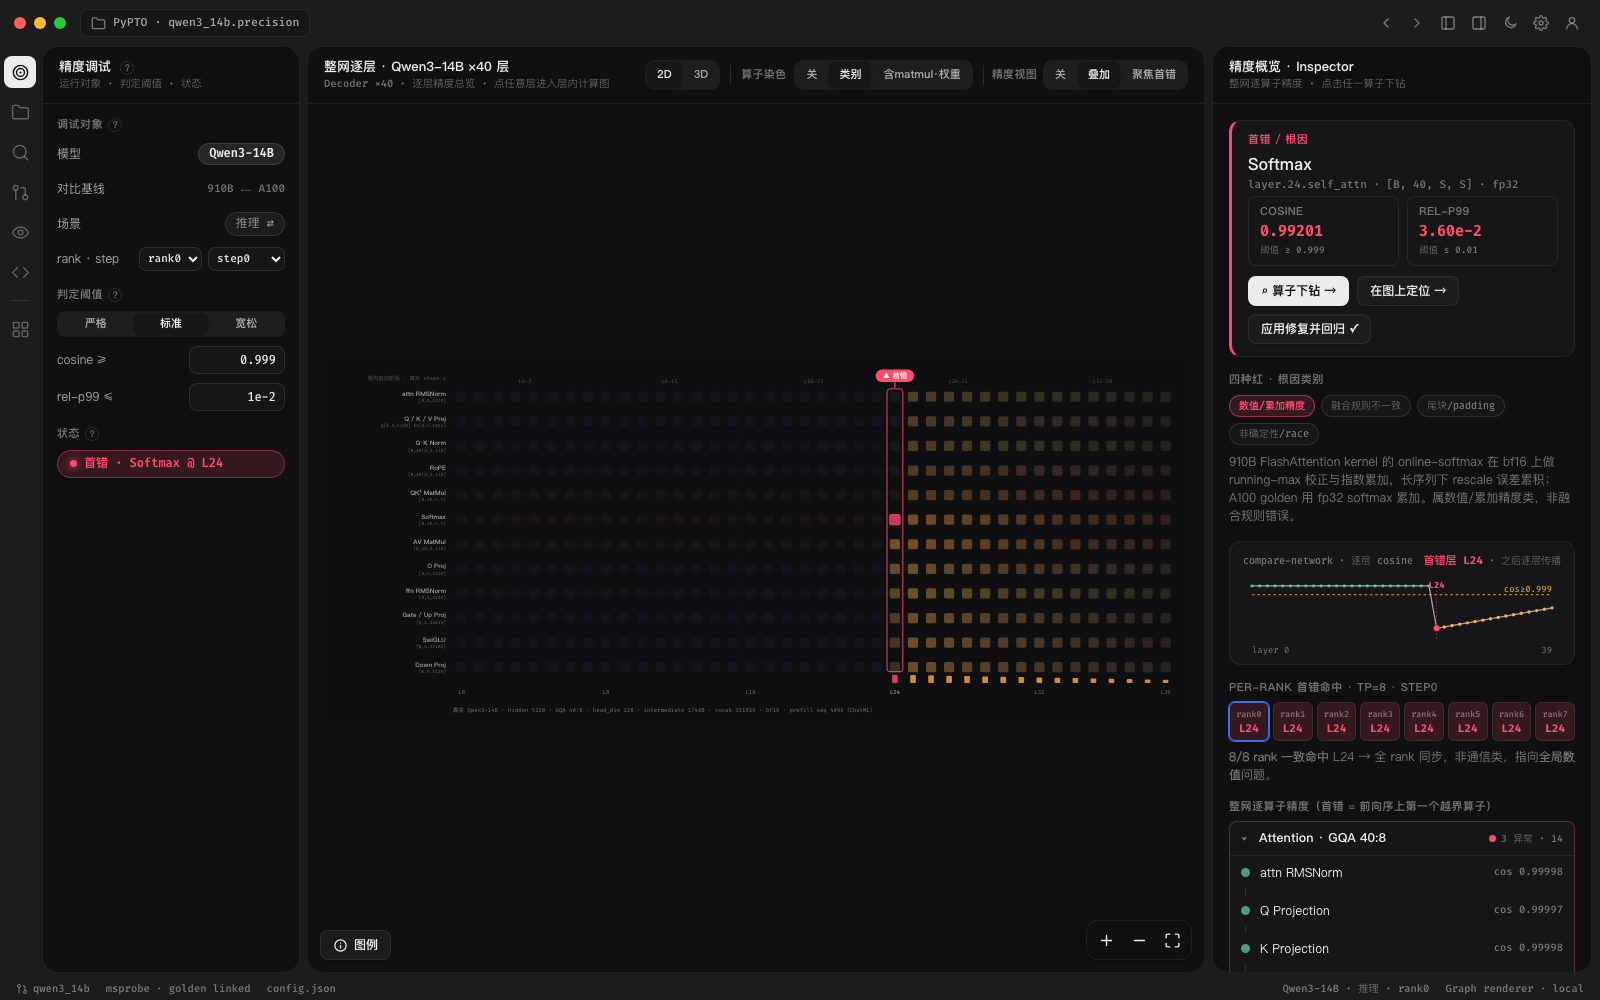
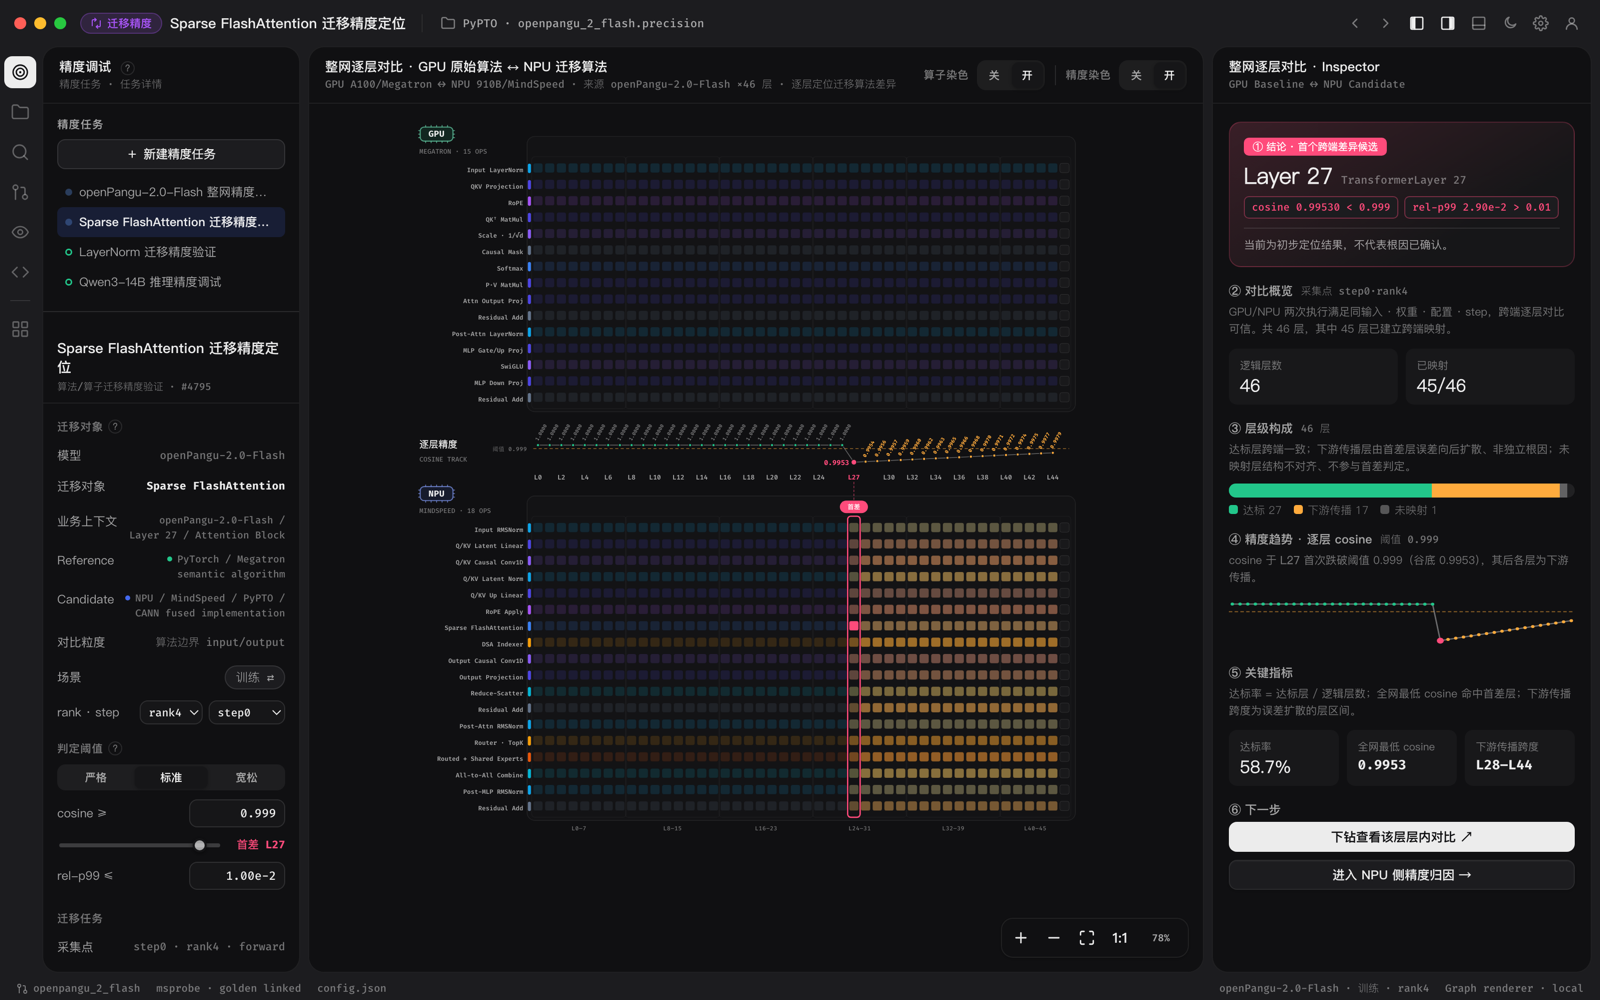
precision-debugger: 迁移架构图暗/浅色可读性修复 + 更新卡片封面
- 算子染色关：算子卡面从 14% 抬到 38% 前景灰，与 tensor 卡等亮、
  与画布拉开图底，文字强制满亮白（原来几乎与背景同色→看不清）
- 浅色 + 算子染色开：满饱和类别色降 fill-opacity 至 .55 掺淡成 pastel，
  深色标签 #0d0f14，解决黑字压在饱和紫上发闷看不清
- 同步 launch-v2 卡片封面为当前 openPangu-2.0-Flash 整网逐层对比落地视图

diff --git a/precision-debugger/index.html b/precision-debugger/index.html
@@ -2245,7 +2245,7 @@ let side3d = false;                     /* 整网侧视图 2D / 3D */
 let orbit = { rx: -16, ry: -32, z: 1 }; /* 3D 默认：等距斜视，深度轴投影为「左下→右上」 */
 let colorMode = 'cat';                   /* 整网染色图层：'cat' 类别 · 'dual' 双轴(是否matmul/有无权重) · 'off' 关 */
 let graphSem = true;                      /* 层内计算图：算子按类别染色(true) / 中性(false)——关掉让精度红/黄更聚焦 */
-const NODE_NEUTRAL = 'color-mix(in srgb, var(--foreground) 13%, var(--ide-pane-bg))';   /* 关闭算子染色时的中性卡面 */
+const NODE_NEUTRAL = 'color-mix(in srgb, var(--foreground) 36%, var(--ide-pane-bg))';   /* 关闭算子染色时的中性卡面（抬亮拉开图底、与 tensor 等亮，文字才看得清） */
 /* 算子类别配色 —— 对齐参考 openpangu modelviz 的领域色板（sem:* → opv:* → hex）
    norm=sky · linear=indigo · attention=blue · rope=violet · act=violet · gate=amber · moe=orange · mlp=violet · comm=cyan · embedding=teal · head=deep-violet */
 const CAT_COLOR = {
@@ -3639,7 +3639,19 @@ function injectArchCss(doc) {
     + ":root[data-theme='light'] .prec-cosbadge.c-crit text{fill:#e5325c}"
     + ":root[data-theme='light'] .prec-cosbadge.c-high text{fill:#c9781a}"
     + '.prec-tag rect{fill:#ff4b7b;filter:drop-shadow(0 2px 7px rgba(255,75,123,.55))}.prec-tag text{fill:#fff;font-family:var(--font-sans);font-weight:800;font-size:18px}'
-    + ':root.arch-nocolor .pto-model-graphviz-node.is-op rect,:root.arch-nocolor .pto-model-graphviz-node.is-module rect{fill:color-mix(in srgb,var(--foreground) 14%,var(--background))!important}';
+    /* 算子染色关：算子卡面抬到 ~0.40 灰，与 0.10 画布拉开图底、且与 tensor 卡（~0.40）等亮——
+       原 14% 几乎与背景同色→文字看不清，且比 tensor 暗一档看着像被「置灰」。仍保持中性去饱和，
+       不与首错/传播的红黄争焦点；文字强制满亮白，加一道细描边稳定图底。 */
+    + ':root.arch-nocolor .pto-model-graphviz-node.is-op rect,:root.arch-nocolor .pto-model-graphviz-node.is-module rect{fill:color-mix(in srgb,var(--foreground) 38%,var(--background))!important;stroke:color-mix(in srgb,var(--foreground) 22%,transparent)!important;stroke-width:1px!important}'
+    + ':root.arch-nocolor .pto-model-graphviz-node.is-op .pto-model-graphviz-node-label,:root.arch-nocolor .pto-model-graphviz-node.is-module .pto-model-graphviz-node-label{fill:#fff!important}'
+    + ':root.arch-nocolor .pto-model-graphviz-node.is-op .pto-model-graphviz-node-type,:root.arch-nocolor .pto-model-graphviz-node.is-module .pto-model-graphviz-node-type{fill:rgba(255,255,255,.72)!important}'
+    + ":root[data-theme='light'].arch-nocolor .pto-model-graphviz-node.is-op rect,:root[data-theme='light'].arch-nocolor .pto-model-graphviz-node.is-module rect{fill:color-mix(in srgb,var(--foreground) 14%,var(--background))!important;stroke:color-mix(in srgb,var(--foreground) 20%,transparent)!important}"
+    + ":root[data-theme='light'].arch-nocolor .pto-model-graphviz-node.is-op .pto-model-graphviz-node-label,:root[data-theme='light'].arch-nocolor .pto-model-graphviz-node.is-module .pto-model-graphviz-node-label{fill:#111!important}"
+    /* 浅色 + 算子染色开：引擎实测把类别色渲成满饱和 periwinkle/紫（fill-opacity=1），黑字压在上面只有 ~6:1、发闷看不清。
+       参考 modelviz 的本意是「淡彩底 + 深字」，这里把彩色底往白画布掺淡（降 fill-opacity）成 pastel，深字才清晰；
+       仅浅色 + 非中性态生效，深色模式与算子染色关都不受影响。 */
+    + ":root[data-theme='light']:not(.arch-nocolor) .pto-model-graphviz-node.is-op rect,:root[data-theme='light']:not(.arch-nocolor) .pto-model-graphviz-node.is-module rect{fill-opacity:.55!important}"
+    + ":root[data-theme='light']:not(.arch-nocolor) .pto-model-graphviz-node.is-op .pto-model-graphviz-node-label,:root[data-theme='light']:not(.arch-nocolor) .pto-model-graphviz-node.is-module .pto-model-graphviz-node-label{fill:#0d0f14!important}";
   (doc.head || doc.documentElement).appendChild(st);
 }
 /* 架构图 iframe：只有点「图外区域」(图内容并集包围盒之外的边距空白) 才返回整网；